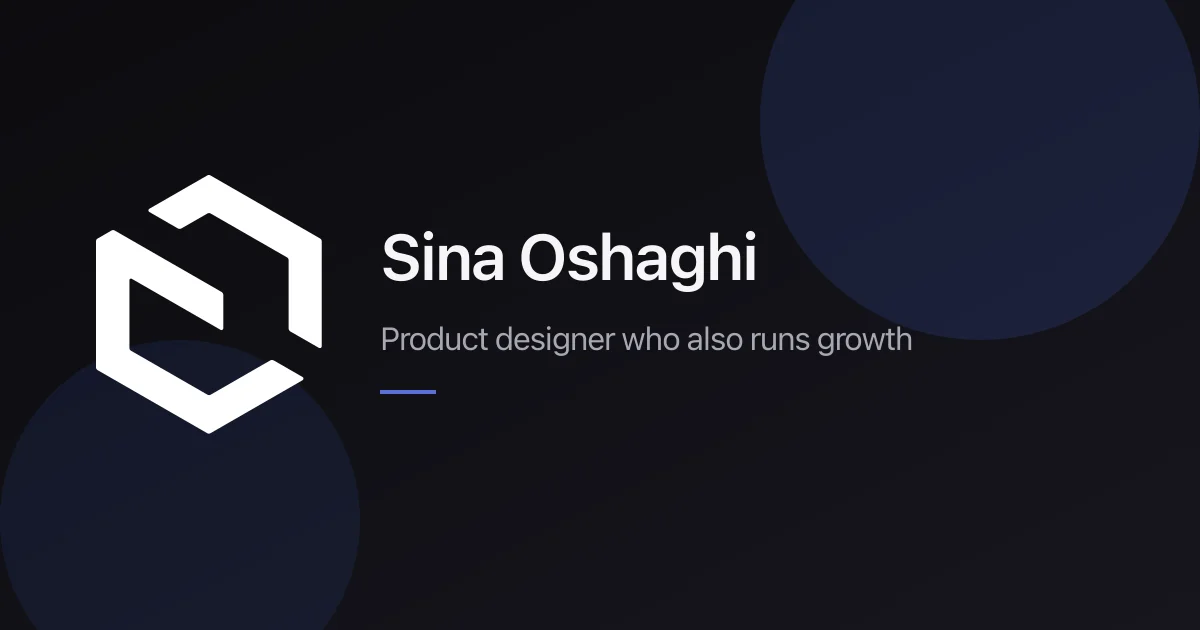
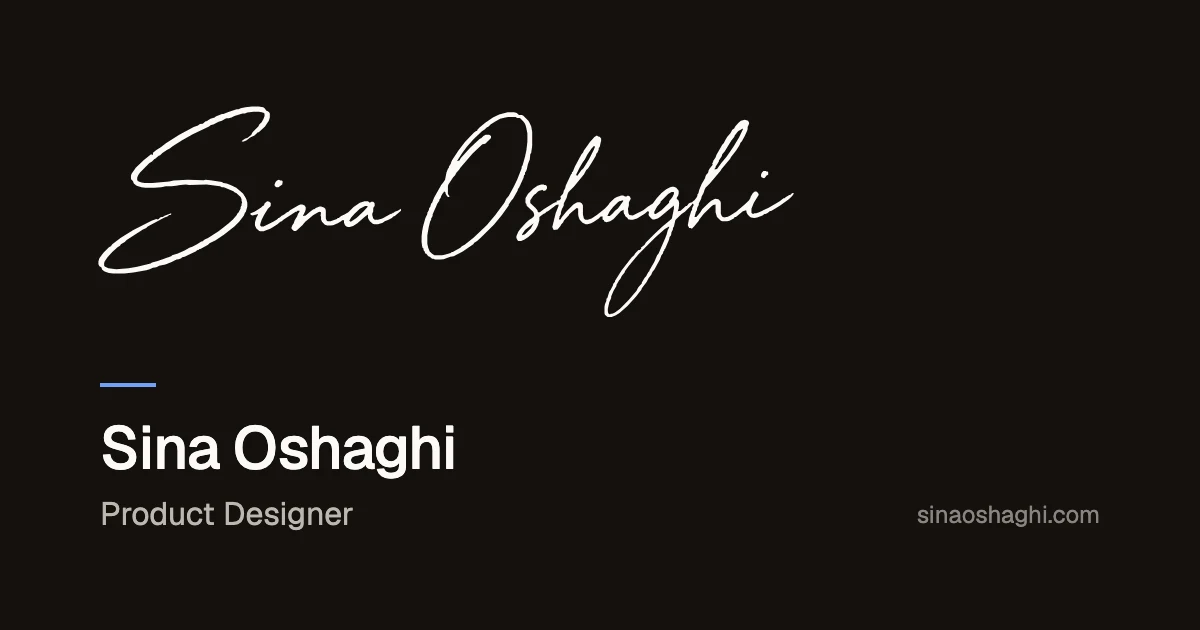
feat(seo): current site card for link previews; Home and About use it
The default share card still carried the retired hexagon mark and the "who also runs growth"
tagline flagged in the D-043 review. Redrawn from the site's own parts: the signature outline,
Geist, ink and paper, the brand rule, "Product Designer". Home and About pointed meta.image at the
Payload template's image-2; the seed no longer sets it, so both fall back to the site card.

diff --git a/src/endpoints/seed/about-page.ts b/src/endpoints/seed/about-page.ts
@@ -1,4 +1,4 @@
-import type { Experience, Media } from '@/payload-types'
+import type { Experience } from '@/payload-types'
 import type { RequiredDataFromCollectionSlug } from 'payload'
 
 import {
@@ -34,11 +34,10 @@ import { paragraph, richText } from './lexical-helpers'
 
 type AboutArgs = {
   experienceDocs: Record<number, Experience>
-  metaImage: Media
 }
 
 /** Thin factory mirroring `home.ts` — assembles the About page from experience doc ids. English pass; the Persian overlay is applied after creation (see `localizeAboutLayoutFa`). */
-export const about: (args: AboutArgs) => RequiredDataFromCollectionSlug<'pages'> = ({ experienceDocs, metaImage }) => {
+export const about: (args: AboutArgs) => RequiredDataFromCollectionSlug<'pages'> = ({ experienceDocs }) => {
   return {
     slug: 'about',
     _status: 'published',
@@ -49,7 +48,6 @@ export const about: (args: AboutArgs) => RequiredDataFromCollectionSlug<'pages'>
     layout: buildAboutLayoutEn(experienceDocs),
     meta: {
       description: aboutMetaDescriptionEn,
-      image: metaImage.id,
       title: aboutMetaTitleEn,
     },
     title: 'About',

diff --git a/src/endpoints/seed/home.ts b/src/endpoints/seed/home.ts
@@ -6,16 +6,15 @@ import { DEFAULT_LOCALE } from '@/utilities/locale'
 
 type HomeArgs = {
   heroImage: Media
-  metaImage: Media
   /** Seeded project ids for the work mosaic, keyed by slug — one per `HOME_MOSAIC` entry. */
   mosaicProjects: Record<string, string>
 }
 
 // `heroImage` is part of the seed's shared media set (see endpoints/seed/index.ts) but the
-// homeImpact hero used here has no media field, so it's intentionally unused.
+// homeImpact hero used here has no media field, so it's intentionally unused. No `meta.image`
+// either: link previews then use the site card `public/sina-oshaghi-OG.webp` (generateMeta).
 export const home: (args: HomeArgs) => RequiredDataFromCollectionSlug<'pages'> = ({
   heroImage: _heroImage,
-  metaImage,
   mosaicProjects,
 }) => {
   return {
@@ -29,7 +28,6 @@ export const home: (args: HomeArgs) => RequiredDataFromCollectionSlug<'pages'> =
     layout: buildHomeLayout({ locale: DEFAULT_LOCALE, projects: mosaicProjects }),
     meta: {
       description: homeMetaDescription,
-      image: metaImage.id,
       title: homeMetaTitle,
     },
     title: 'Home',

diff --git a/src/endpoints/seed/index.ts b/src/endpoints/seed/index.ts
@@ -327,7 +327,7 @@ export const seed = async ({
     payload.create({
       collection: 'pages',
       depth: 0,
-      data: home({ heroImage: imageHomeDoc, metaImage: image2Doc, mosaicProjects }),
+      data: home({ heroImage: imageHomeDoc, mosaicProjects }),
       context: { disableRevalidate: true },
     }),
     payload.create({
@@ -349,7 +349,7 @@ export const seed = async ({
   const aboutPage = await payload.create({
     collection: 'pages',
     depth: 0,
-    data: about({ experienceDocs, metaImage: image2Doc }),
+    data: about({ experienceDocs }),
     context: { disableRevalidate: true },
   })
 
